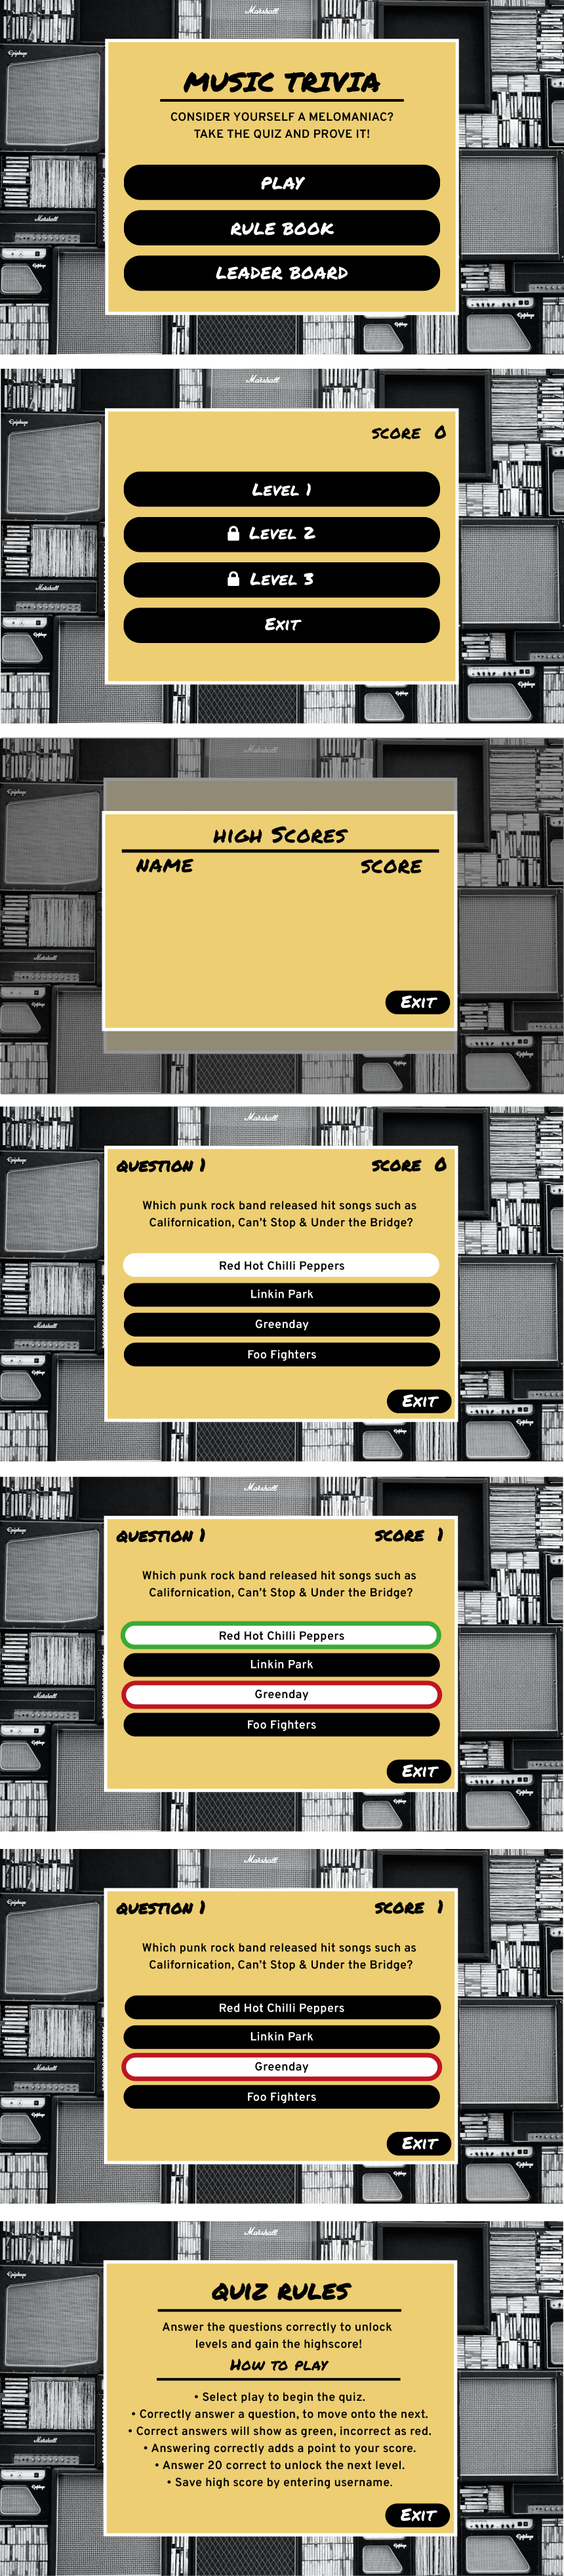
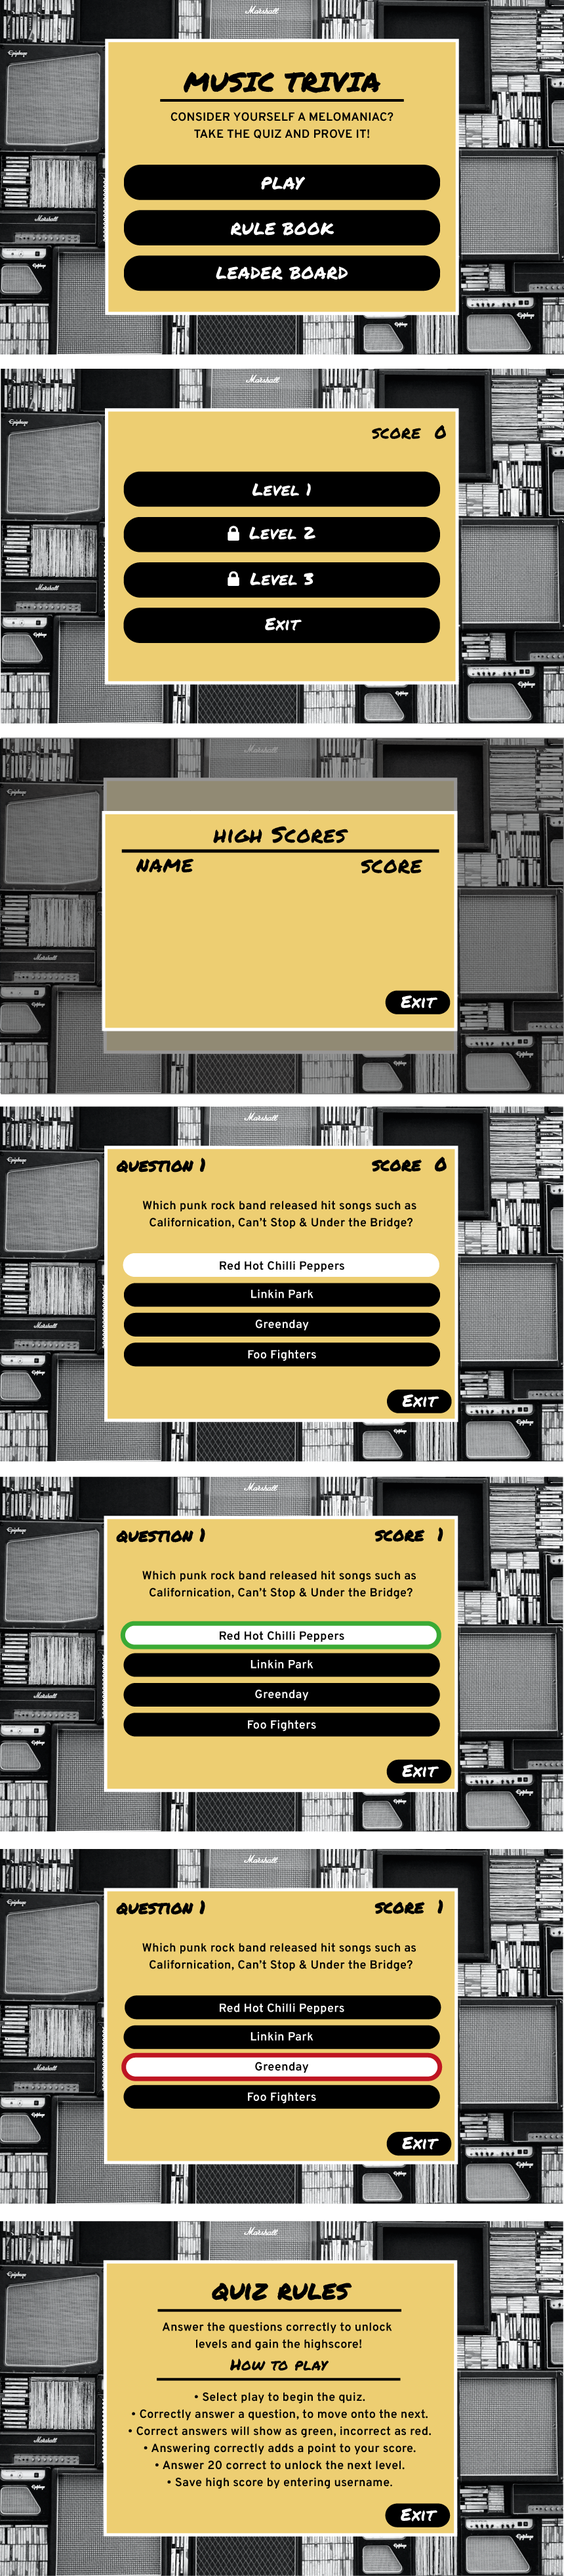
Add wireframe and description

Changed region(s): [[0.2116, 0.6526, 0.786, 0.6836]]

diff --git a/README.md b/README.md
@@ -1,6 +1,8 @@
 # Music Triva
 ## User Experience (UX)
+
 ### User stories
+
 **First Time Visitor Goals**
 
 - As a First Time Visitor, I want to easily understand the main purpose of the site and learn more about the organisation.
@@ -14,6 +16,7 @@
 - As a Returning Visitor, I want to find community links.
 
 **Frequent User Goals**
+
 - As a Frequent User, I want to check to see if there are any newly added challenges or hackathons.
 - As a Frequent User, I want to check to see if there are any new blog posts.
 - As a Frequent User, I want to sign up to the Newsletter so that I am emailed any major updates and/or changes to the website or organisation.
@@ -21,17 +24,26 @@
 ## Design
 
 ### Colour Scheme
+
 The main colours used are yellow (#eecf71), black and white, these colours compliment each other well, producing a clean, bold design.
 
 ### Typography
+
 The Permanent Marker and Overpass fonts are the main fonts used throughout the whole website. Cursive is the fallback for Permanent Marker, and sans serif for Overpass, in case for any reason the font isn't being imported into the site correctly. Permanent Marker is a bold and playful font suited well for a game/ quiz, Overpass is a simple but attractive font making it perfect for a question and answer format.
 
 ### Imagery
-- The background image used throught the quiz is a photograph of a speaker wall, which fits the theme of the quiz and makes for an interesting background.
-- The [favicon](https://github.com/EJDiamond/Music-Trivia/blob/main/favicon.png), matches the theme of the page, using the yellow background with a musical note representing the music trivia. 
 
-### Wireframes
-Wireframe - [View]()
+- The background image used throught the quiz is a photograph of a speaker wall, which fits the theme of the quiz and makes for an interesting background.
+- The [favicon](https://github.com/EJDiamond/Music-Trivia/blob/main/assets/images/favicon.png), matches the theme of the page, using the yellow background with a musical note representing the music trivia. 
+
+### Wireframe
+
+The [wireframes](https://github.com/EJDiamond/Music-Trivia/blob/main/assets/images/wireframe-music-trivia.png) show the intial page where the user can select to play, read rules or view the leaderboard. Once 'play' is selected the player is then has the option to select a level, intially only the first level is unlocked and once passed the level two will be available, with level three being accessed once the second level is passed.
+
+The quiz is opened once the level is selected, taking the user to the first question. When an answer is hovered over the slection turn white, if the answer selected is correct it will turn green, if incorrect, it will turn red.
+
+The option to exit the quiz is presented as a button at each stage.
+
 
 
 
